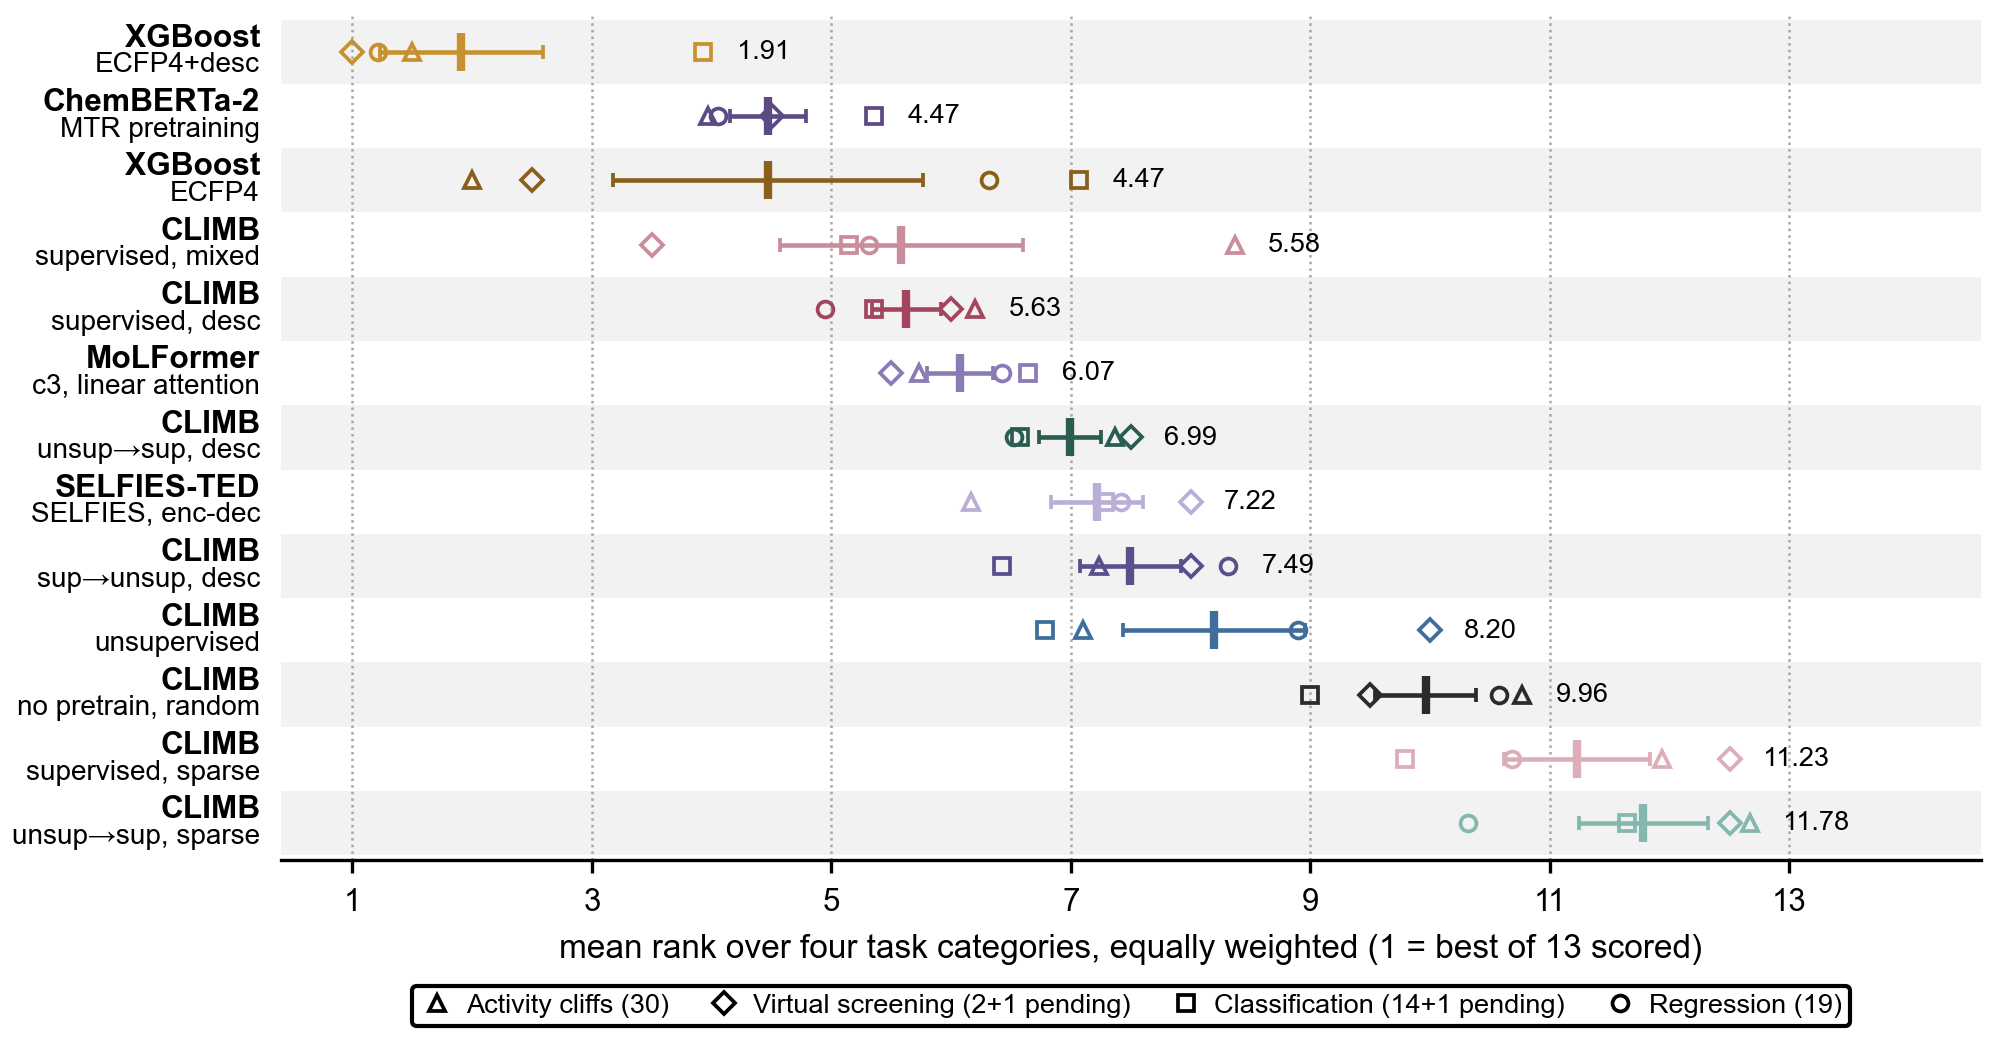
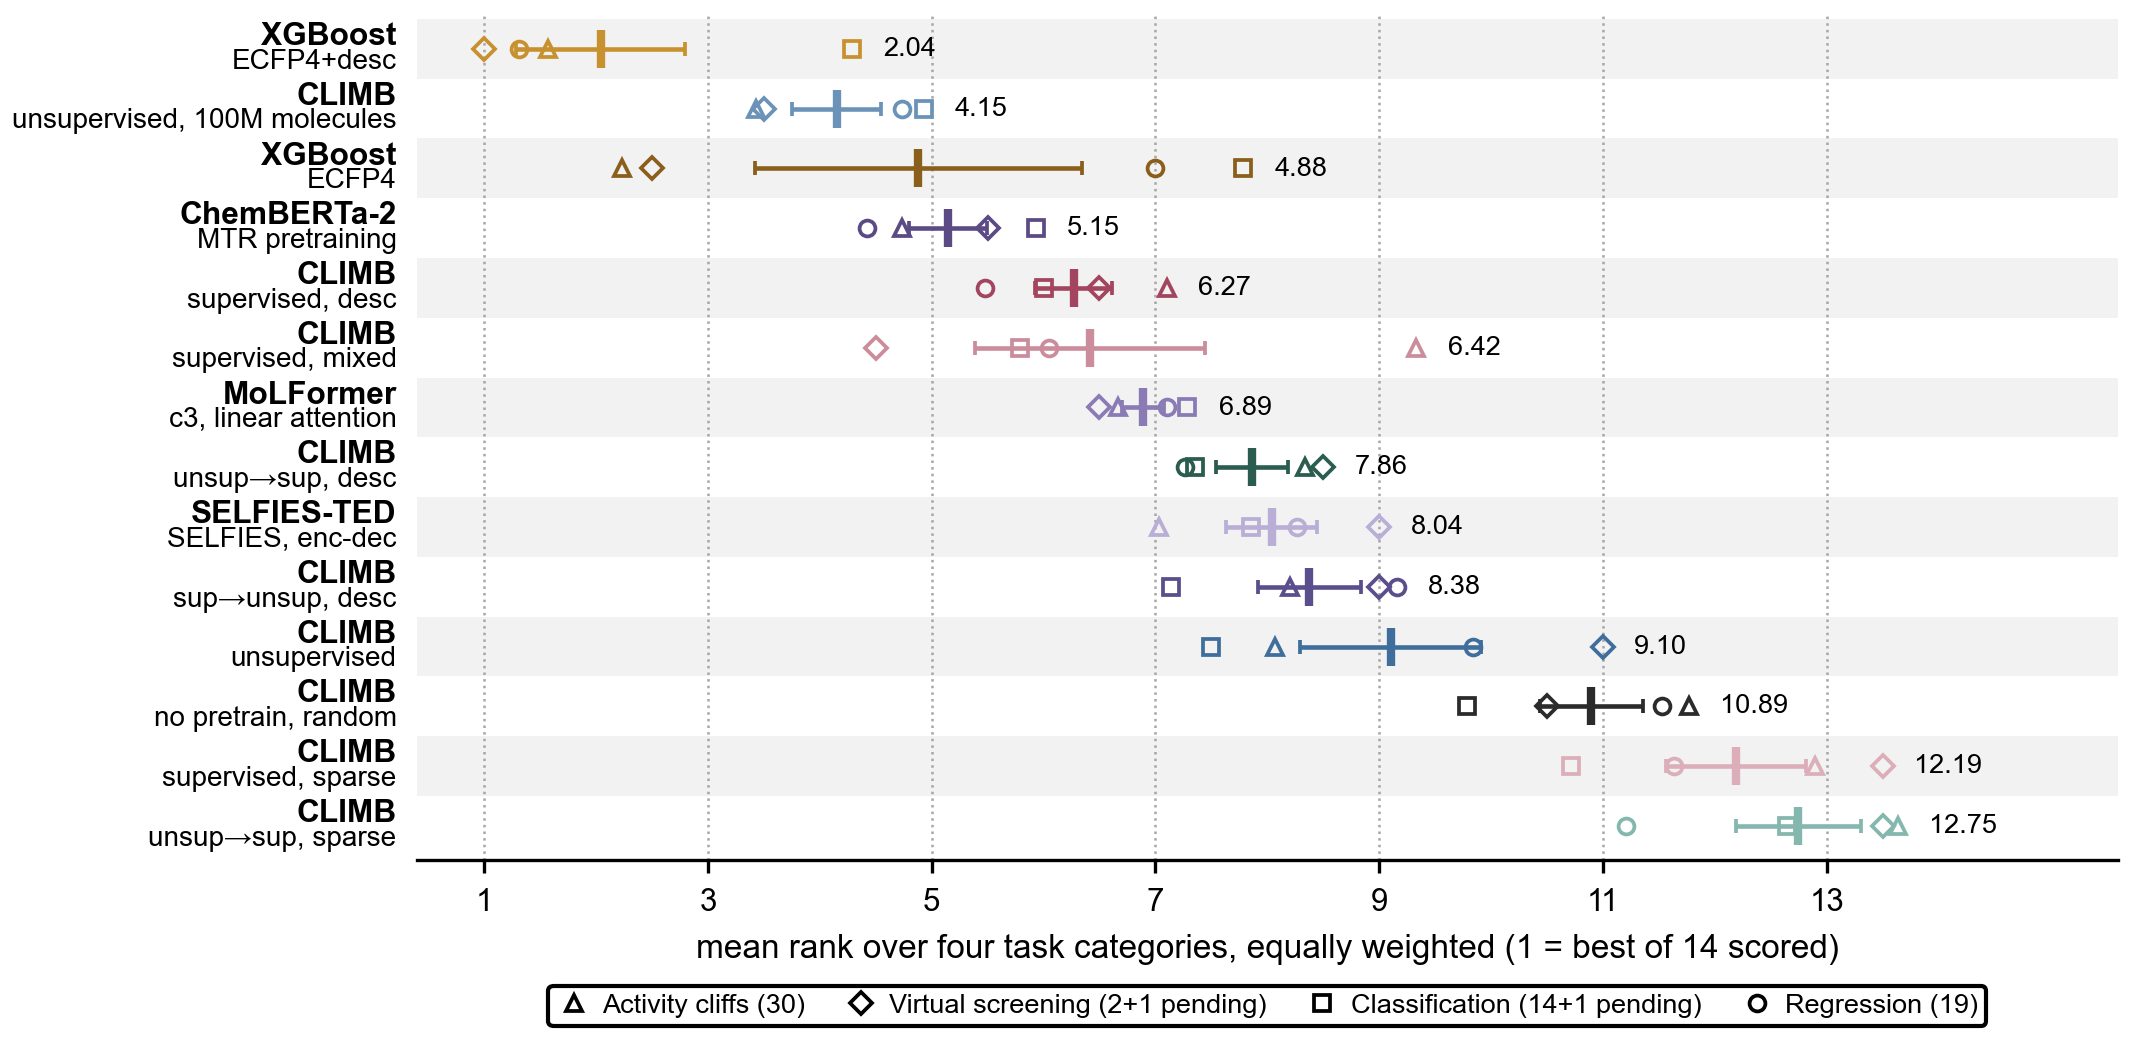
fig_A: rank unsup_100M, and it places second ahead of ChemBERTa-2
Leif asked whether the largest CLIMB runs could be ranked in fig_A rather than
appearing only in fig_B. unsup_100M can, today, with no new compute: it already
carries all four suite trees -- 28 Polaris tasks x 3 head seeds, MoleculeACE,
CBS, MolNet -- so it only needed registering.

It places SECOND of fourteen at 4.15, ahead of ChemBERTa-2 (5.15) and ahead of
every other CLIMB arm, winning activity cliffs (3.43 vs 4.73), virtual screening
(3.50 vs 5.50) and classification (4.93 vs 5.93) and losing regression narrowly
(4.74 vs 4.42). "CLIMB's largest-corpus model outranks the best literature CLM
on the full 65-dataset ranking" is now measured rather than inferred from fig_B.

Its replicate axis is the HEAD SEED -- one pretraining run, three seeds inside
one directory -- so pretrain_replicates=False, the convention the anchors and
the literature CLMs already use. That makes six of fourteen rows head-seed
rather than pretraining-seed replicates, and the caption's "3 seeds means two
estimands" clause needs the updated count.

skip_dense_96M IS REGISTERED AND DELIBERATELY NOT RANKED. It is the largest
supervised run by compute -- 96M forward passes -- but sees only 12M unique
molecules, eight epochs of the small corpus, and scores WORSE than the 48M rung
it repeats (0.7748 vs 0.7674 macro RMSE on MoleculeACE). Ranking it as "the
largest supervised model" would state the opposite of what fig_B now says. Its
[…]

diff --git a/figures/arms.py b/figures/arms.py
@@ -175,6 +175,32 @@ ARMS = {
         src=dict(mace="fp_desc", cbs_legacy_label="fp_desc",
                  mol=["fp_desc_anchor", "fp_desc_anchor_s1", "fp_desc_anchor_s2"])),
 
+    # ---------------------------------------------------------- the largest-corpus CLIMB runs --
+    # Added 2026-08-26. These are SINGLE pretraining runs, so their replicate axis is the HEAD
+    # SEED (3 seeds inside one directory), not three pretrainings -- `pretrain_replicates=False`,
+    # the same convention the anchors and the literature CLMs use.
+    #
+    # unsup_100M is the largest CLIMB model on the axis that matters: 100M DISTINCT molecules from
+    # the 124M corpus, under one epoch, no repetition. It is the only CLIMB arm that has seen more
+    # unique chemistry than ChemBERTa-2's ~77M.
+    #
+    # skip_dense_96M is deliberately NOT its supervised counterpart. It is the largest supervised
+    # run by COMPUTE (96M forward passes) but sees only 12M unique molecules -- eight epochs of the
+    # small corpus -- and it scores WORSE than the 48M rung it repeats (0.7748 vs 0.7674 macro RMSE
+    # on MoleculeACE). Registered here so it can be quoted, and left out of fig_A's field: ranking a
+    # repetition-saturated arm as "the largest supervised model" would say the opposite of what
+    # fig_B now says. Its real counterpart is skip_dense_100M_c124, in flight.
+    "unsup_100M": dict(
+        label="unsupervised, 100M molecules", short="unsup 100M", family="unsup",
+        color=SHADES["unsup"][1], probe="frozen", pretrain_replicates=False,
+        in_ablation=False, unique_molecules=100_000_000,
+        src=dict(mace="unsup_100M", mol=["unsup_100M"])),
+    "sup_dense_96M": dict(
+        label="supervised desc, 96M passes", short="sup 96M", family="sup",
+        color=SHADES["sup"][2], probe="frozen", pretrain_replicates=False,
+        in_ablation=False, in_ranking=False, unique_molecules=12_000_000,
+        src=dict(mace="skip_dense_96M", mol=["skip_dense_96M"])),
+
     # ------------------------------------------------------------ external literature CLMs ----
     # Three published chemical language models, added 2026-08-26 from the fig_A wave. All three
     # are FROZEN + MLP probe, featurized in ONE environment (scripts/figA_extract_all.sh) so no

diff --git a/figures/fig_A.py b/figures/fig_A.py
@@ -70,6 +70,13 @@ INK = "#000000"
 RANKED_ARMS = ["ecfp", "ecfp_desc",
                "sup_dense", "sup_sparse", "sup_mixed",
                "unsup", "u2s_dense", "u2s_sparse", "s2u_dense", "random_encoder",
+               # The largest-corpus CLIMB run (Leif 2026-08-26). 100M DISTINCT molecules, the only
+               # CLIMB arm to exceed ChemBERTa-2's ~77M, and the only one whose data scale is
+               # comparable to a published CLM. Its supervised counterpart is skip_dense_100M_c124,
+               # in flight; sup_dense_96M is NOT it -- 96M forward passes but only 12M unique
+               # molecules, and it scores worse than the 48M rung it repeats, so ranking it as
+               # "the largest supervised model" would contradict fig_B.
+               "unsup_100M",
                "chemberta_mtr", "molformer_c3", "selfies_ted"]
 
 # PENDING_ARMS is empty: the three literature CLMs landed 2026-08-26 and are now real entries in
